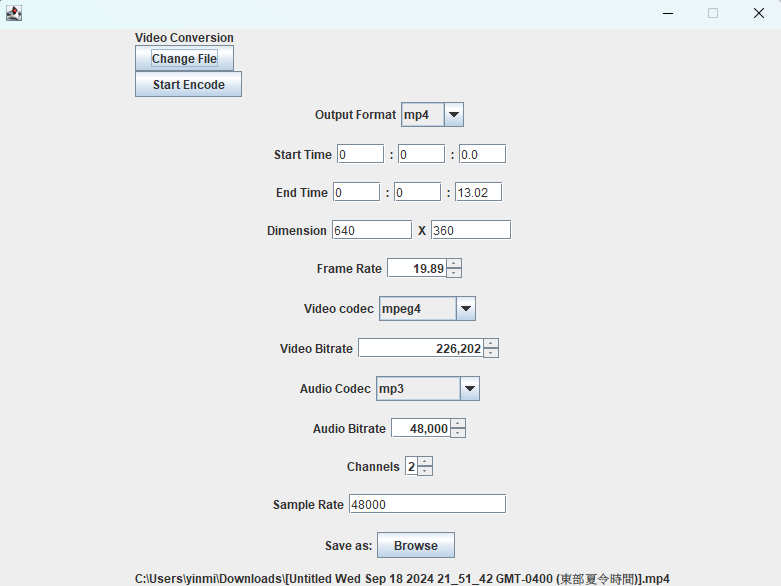
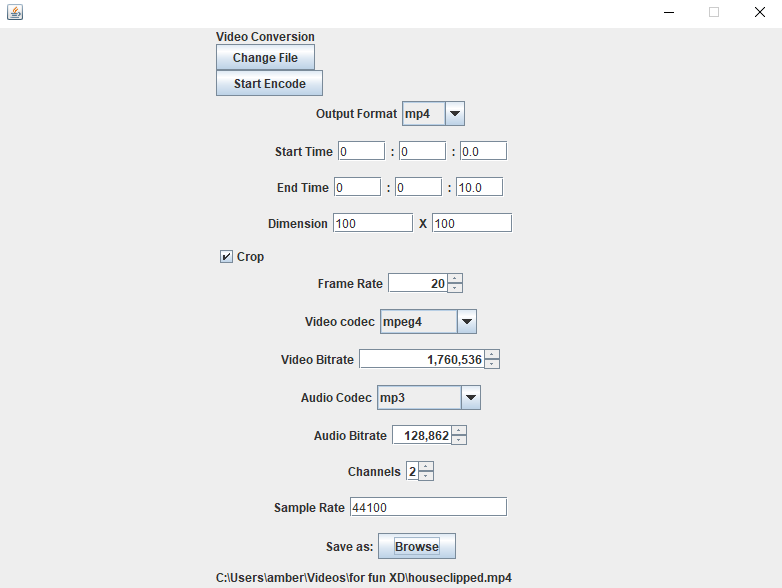
Updated README to reflect new feature

diff --git a/README.md b/README.md
@@ -53,13 +53,14 @@ This application supports a variety of media operations, including:
 - Transcoding
 - Trimming
 - Resizing (video)
+- Cropping (video)
 - Change framerate (video)
 - High-quality GIF conversion (video)
 
 We aim to provide a minimally opinionated conversion scheme. However, certain parameter combinations
 are incompatible and may not work. (For example, the "opus" audio codec supports a fixed sample rate of 48kHz.)
 
-We hope to support more features in the future, including cropping, subtitles, chapters, and more advanced video filters.
+We hope to support more features in the future, including subtitles, chapters, and more advanced video filters.
 
 
 
